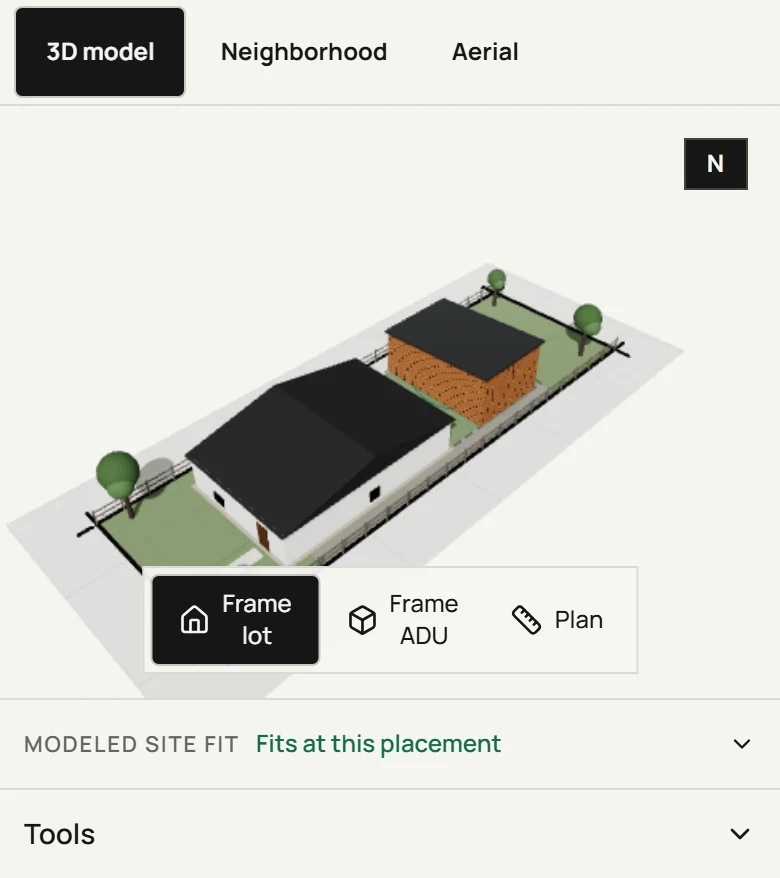
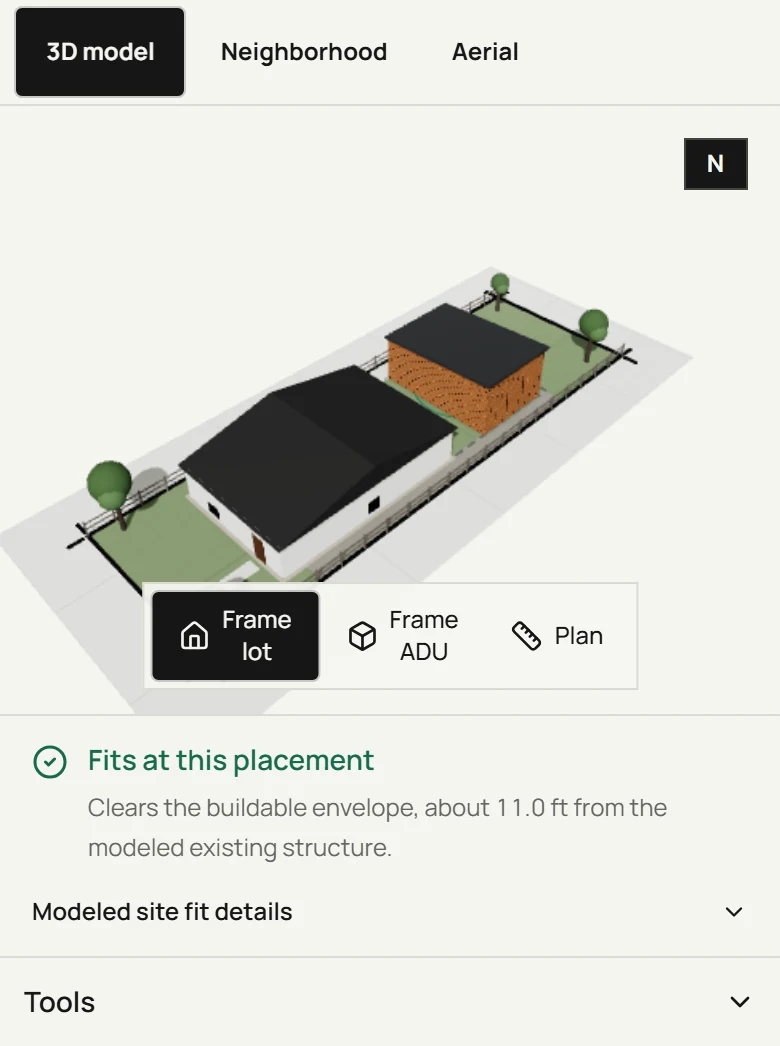
fix(landing): refresh Studio preview for the combined release

diff --git a/components/landing/lot-more/LotMoreLanding.tsx b/components/landing/lot-more/LotMoreLanding.tsx
@@ -471,7 +471,7 @@ export function LotMoreLanding({
                     media="(max-width: 800px)"
                     srcSet="/landing/studio-demo-mobile.webp"
                     width={780}
-                    height={878}
+                    height={1046}
                   />
                   {/* Pre-sized local captures preserve the actual demo UI. */}
                   <img

diff --git a/docs/design/2026-09-23-landing-clarity.md b/docs/design/2026-09-23-landing-clarity.md
@@ -3,7 +3,9 @@
 Andrew approved all landing critique fixes on September 23, 2026. Implemented on
 `design/landing-clarity-20260923`, based on `6993d2d`, in the isolated worktree
 `C:/Users/Andrew/LotFoundry/.worktrees/landing-clarity-20260923`.
-This is a local implementation record; no commit, push, merge, or deployment is included.
+The original implementation was committed as `dc0d3b7`. Andrew subsequently
+authorized the combined web release; see `docs/releases/2026-09-23-web.md` for
+the final validation and deployment boundary.
 
 ## Resulting page
 
@@ -30,8 +32,10 @@ This is a local implementation record; no commit, push, merge, or deployment is 
 
 ## Studio preview provenance
 
-The preview is a screenshot of the actual local Oak Street demo scene at
-`6993d2d`: Seattle, the default 600 sq ft concept, cedar finish and shed roof.
+The preview is a screenshot of the actual local Oak Street demo scene: Seattle,
+the default 600 sq ft concept, cedar finish and shed roof. It was refreshed for
+the combined release from `dc0d3b7` plus the Studio changes from `70b4bd2`, so
+the image matches the newly visible modeled-fit feedback.
 The capture script opens Design on desktop and Shape on mobile and captures
 `scene-viewport`, including the real model, toolbar, and modeled-fit feedback.
 The model or result was not painted into the screenshot. All external requests
@@ -39,8 +43,8 @@ are blocked during capture; no account, real-address lookup, or AI call is used.
 
 | Asset | Dimensions | Bytes |
 |---|---|---|
-| `public/landing/studio-demo-desktop.webp` | 1200 × 1202 | 46,500 |
-| `public/landing/studio-demo-mobile.webp` | 780 × 878 | 24,650 |
+| `public/landing/studio-demo-desktop.webp` | 1200 × 1202 | 50,528 |
+| `public/landing/studio-demo-mobile.webp` | 780 × 1046 | 33,796 |
 
 The responsive picture reserves the image dimensions and loads lazily. Each
 visitor downloads the appropriate variant. Encoding changes only image size and
